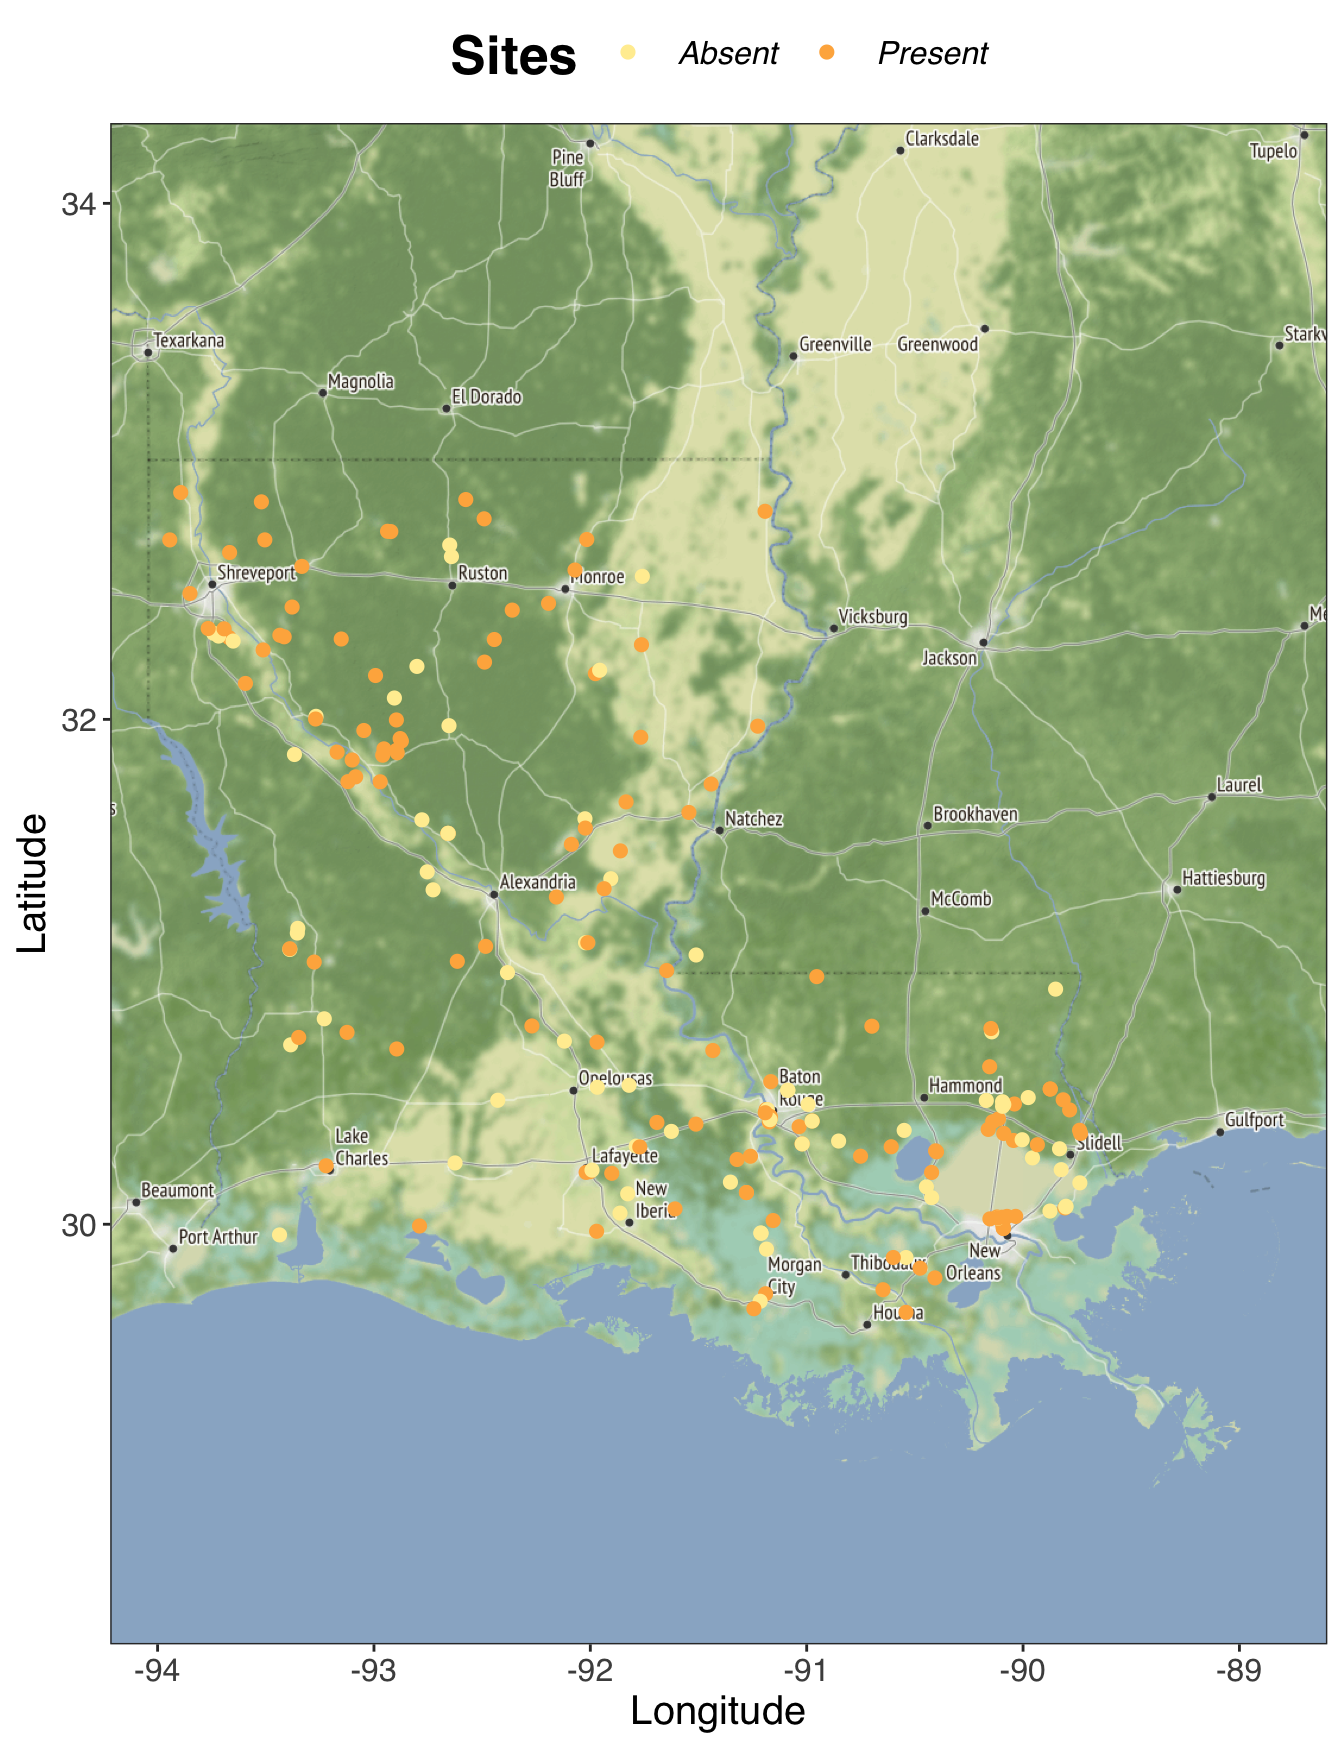
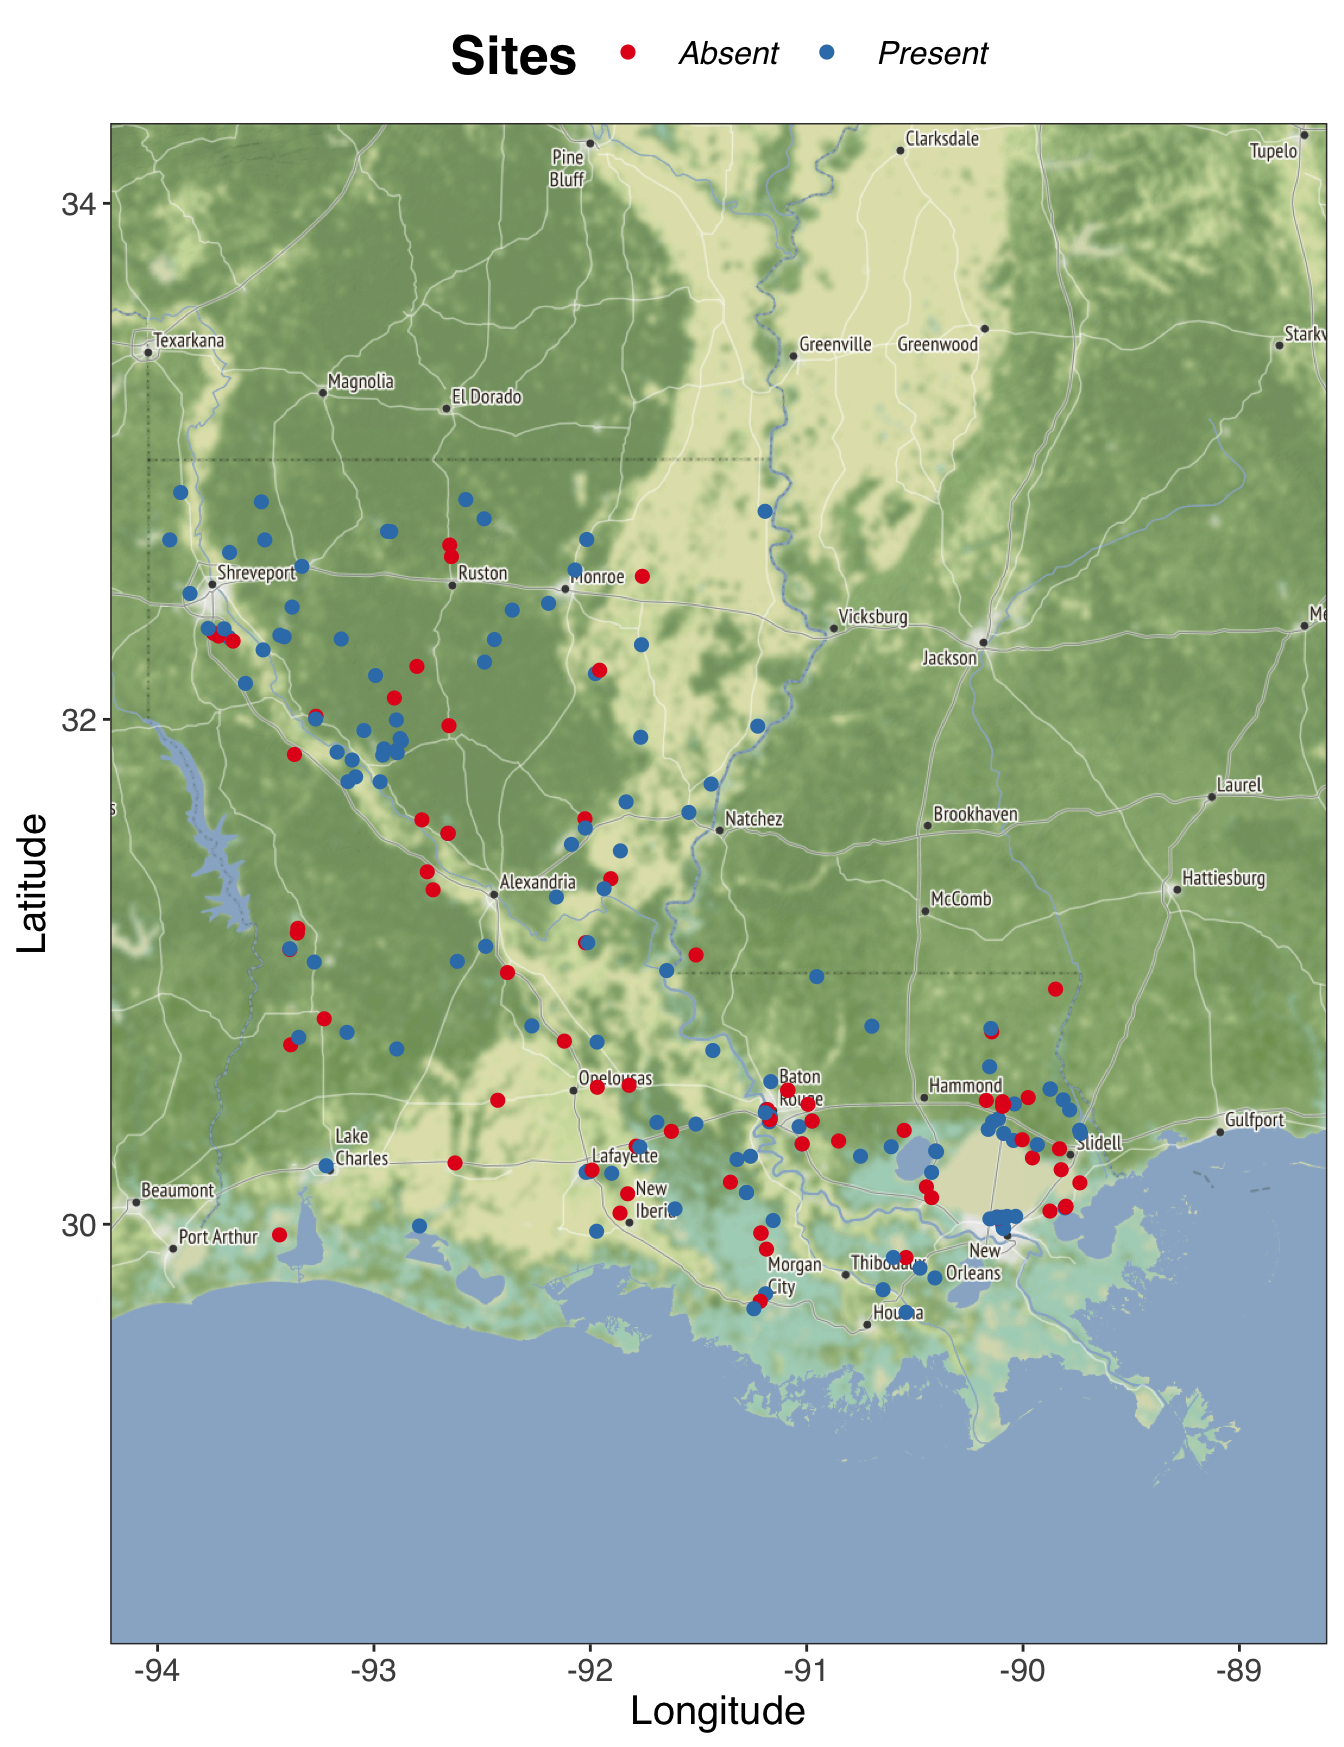
Added Elyzabeth and removed Kendall from the "Meet the Lab" page. Also, I changed the color scheme for the map on "The Hunt" page.

diff --git a/meetthelab.html b/meetthelab.html
@@ -317,12 +317,20 @@ pursue a Bachelor of Science in Computer Science degree with a
 concentration in data science plus a minor in biological sciences.” <br>
 <br></p>
 <p><strong>Undergraduate Student Researchers:</strong> <br> <br> <img
-src="amori_bieller.jpeg" style="width:25.0%" /> <br> <br> Amori Bieller
-<br> Spring 2022 - <br> “I work in the lab mainly doing spicule prep and
-major in general science with a focus on biology. I have worked in
-entomology and currently as an equine professional; which has heavily
-influenced my interest in animal behavior and career choice of wildlife
-biology.”</p>
+src="elyzabeth_ardoin.jpg" style="width:25.0%" /> <br> <br> Elyzabeth
+Ardoin <br> Spring 2023 - <br> “My name is Elyzabeth Ardoin, and I am a
+psychology major. I was offered a chance to join the Louisiana
+Freshwater Sponge Project in the fall of 2022. I have always wanted to
+work in a lab, so it seemed like the perfect opportunity! I will be
+working on DNA isolation as well as on learning spicule prep. After this
+semester, I plan on transferring schools to continue my education in
+psychology and potentially forensics.”</p>
+<p><br> <br> <img src="amori_bieller.jpeg" style="width:25.0%" /> <br>
+<br> Amori Bieller <br> Spring 2022 - <br> “I work in the lab mainly
+doing spicule prep and major in general science with a focus on biology.
+I have worked in entomology and currently as an equine professional;
+which has heavily influenced my interest in animal behavior and career
+choice of wildlife biology.”</p>
 <p><br> <br> <img src="lisa_dimaggio.jpeg" style="width:25.0%" /> <br>
 Lisa DiMaggio <br> Spring 2022 - <br> “I am currently a general science
 major. My future plans include a bachelor’s degree in laboratory science
@@ -354,13 +362,7 @@ natural resource ecology and management and my role in the Louisiana
 Freshwater Sponge Project is water analysis. After completing my
 Associates of Science Transfer degree, I hope to attend LSU to continue
 my education in wildlife ecology. A fun fact about me is that I have
-been a vegetarian for about 14 years now.”</p>
-<p><br> <br> <img src="kendall_white.jpg" style="width:25.0%" /> <br>
-Kendall White <br> Spring 2022 - <br> “I am an ecological restoration
-major, minoring in forestry. In the future, I hope to work for NASA. I
-am currently volunteering in the lab doing water and coliform counts as
-well as labeling. A fun fact about me is that I have been crocheting for
-12 years!” <br> <br></p>
+been a vegetarian for about 14 years now.” <br> <br></p>
 <p><strong>Previous Research Mentors:</strong> these students trained
 students on molecular techniques, sponge collection, and sponge
 dissection. These students are always available for outreach
@@ -375,7 +377,8 @@ Summer 2020 - Spring 2021 <br> Ciarlini, Duda: Fall 2021 <br> Henriquez,
 Axel: Spring 2022 - Summer 2022 <br> Johnson, Samuel J.: Fall 2021 -
 Spring 2022 <br> Lee, Britney: Fall 2021 - Spring 2022 <br> Skelton,
 Raven: Fall 2021 - Spring 2022 <br> Smith, Charmaine: Summer 2019 -
-Spring 2020 <br> Worley, Raven: Fall 2021 - Spring 2022 <br> <br></p>
+Spring 2020 <br> White, Kendall: Spring 2022 - Fall 2022 <br> Worley,
+Raven: Fall 2021 - Spring 2022 <br> <br></p>
 <p><strong>Previous High School Student Researchers:</strong> these
 students participated in research at BRCC while completing their high
 school degree. <br> <br> Collins, Makayla (Helix Mentorship STEAM
